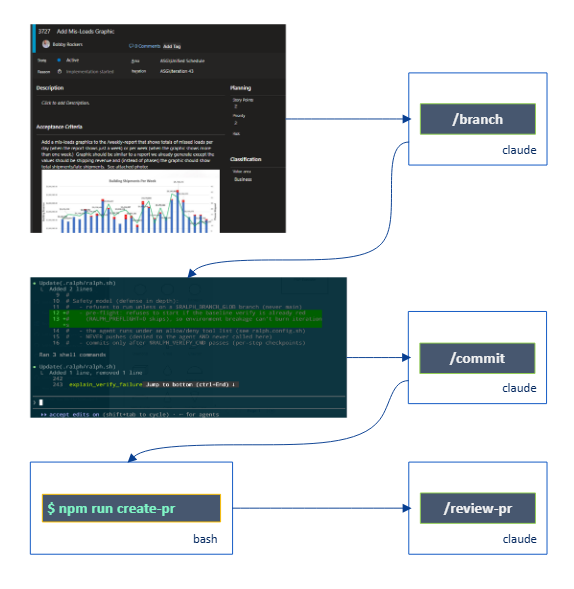
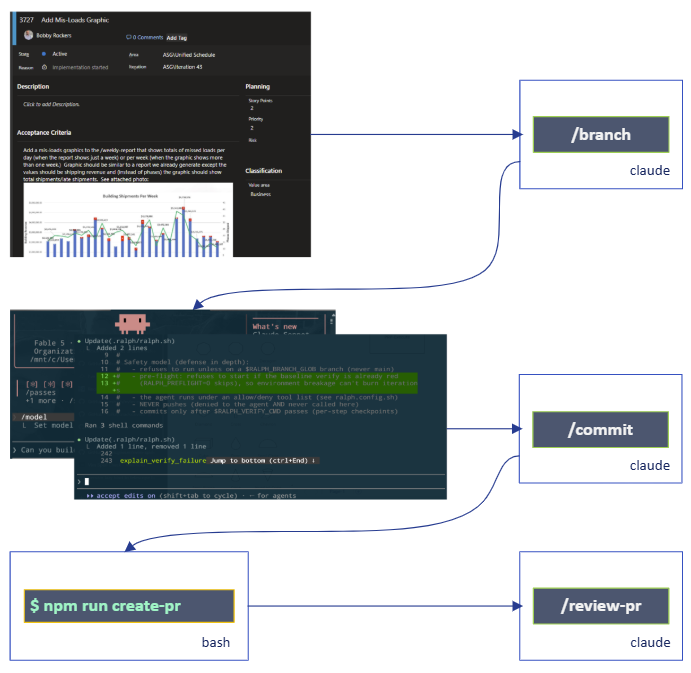
Lunch and learn updates with new ralph stuff.

diff --git a/index.html b/index.html
@@ -29,13 +29,22 @@
         font-size: 0.75em;
         margin: 20px auto;
       }
+    .reveal ul {
+      font-size: 0.7em; /* Adjust percentage or em as needed */
+    }
+    .reveal.reveal img {
+        border: none;
+        box-shadow: none;
+        max-height: calc(56vh);
+        max-width: calc(66vw);
+    }
     </style>
 	</head>
 	<body>
 		<div class="reveal">
 			<div class="slides">
 				<section>
-					<h2><img src="images/asg_logo.png" style="box-shadow:none; border:none; background:none"></h2>
+        <img src="images/asg_logo.png">
 				</section>
 
 				<section>
@@ -45,15 +54,16 @@
 
 				<section>
 					<h5>Vibe Coding <small>Version 1</small></h5>
-					<h2><img src="images/claude-v1.png" style="box-shadow:none; border:none; background:none"></h2>
+          <img src="images/claude-v1.2.png">
 				</section>
 
 				<section>
 					<h5>The Good  <small>Version 1</small></h5>
           <ul>
             <li>Automate repetitive tasks</li>
-            <li>Large scale templating functionality</li>
+            <li>Effectively eliminates boilerplate coding</li>
             <li>Easy to get summarized context</li>
+            <li>Like pair-programming with stack-exchange/Google</li>
           </ul>
         </section>
 
@@ -61,14 +71,15 @@
           <h5>The Bad  <small>Version 1</small></h5>
           <ul>
             <li>Worker "just does something"</li>
-            <li>Buggy/inconsistent code</li>
+            <li>Absence of any business knowledge you don't provide</li>
+            <li>Inconsistent code</li>
             <li>Long Run Sessions hallucinate</li>
           </ul>
 				</section>
 
 				<section>
 					<h5>PRD Workflow <small>Version 2</small></h5>
-					<h2><img src="images/claude-v2.png" style="box-shadow:none; border:none; background:none"></h2>
+          <img src="images/claude-v2.png">
 				</section>
 
 				<section>
@@ -77,6 +88,7 @@
             <li>Prompt Engineering defined process</li>
             <li>Better, more consistent results</li>
             <li>More likely to actually build what you want</li>
+            <li>Incorporates deep technical engineering skills</li>
           </ul>
         </section>
 
@@ -93,7 +105,7 @@
 
 				<section>
 					<h5>ASG Workflow <small>version 3</small></h5>
-					<h2><img src="images/claude-v3.png" style="box-shadow:none; border:none; background:none"></h2>
+          <img src="images/claude-v3.png">
 				</section>
 
 				<section>
@@ -101,7 +113,7 @@
           <ul>
             <li>Follows & Automates OUR workflow</li>
             <li>Automated Cross-LLM AI Review</li>
-            <li>Context Driven at each stage</li>
+            <li>Context Driven from task descriptions, allowing PMs to better scope</li>
             <li>Significant use of scripting for deterministic tasks</li>
             <li>Scripting allows for use outside of Claude</li>
           </ul>
@@ -110,40 +122,54 @@
         <section>
           <h5>The Bad <small>version 3</small></h5>
           <ul>
-            <li>Onerous for defining PRD requirements on the creator of the task</li>
+            <li>Onerous is on defining PRD requirements by the creator of the task</li>
             <li>AI still only has the context you've given it</li>
             <li>Agent Experts run with legacy context</li>
             <li>Agent Experts are inferred instead of defined</li>
-            <li>No built-in mechanism for continual agent improvement</li>
+            <li>No built-in mechanism for continual agent improvement/learning</li>
           </ul>
 				</section>
 
 				<section>
 					<h5>ASG Ralph Workflow <small>version 4</small></h5>
-					<h2><img src="images/claude-v3.png" style="box-shadow:none; border:none; background:none"></h2>
+          <img src="images/claude-v4.png">
 				</section>
 
 				<section>
 					<h5>Improvements</h5>
           <ul>
+            <li>Doesn't replace existing workflow, instead its extends and adds to it</li>
             <li>PRD like context, BUT inside our existing workflow</li>
             <li>AI Prompts for deep understanding and clarity</li>
             <li>Skill Specific AI Agents</li>
             <li>Full scripted unattended development</li>
             <li>Model continually learns/improves itself via guardrails & proposals</li>
+            <li>Claude commands, and their scripts, are now a plugin for ANY project</li>
           </ul>
         </section>
 
         <section>
           <h5>New Commands</h5>
           <ul>
-            <li>/grill-me: Claude command to make Claude ask questions where is lacks clarity.</li>
-            <li>/branch-ralph: /branch but will automatically pull the selected task into the ralph loop.</li>
-            <li>/create-ralph: Generates the ralph.sh script and prd.json file for autonomous development</li>
-            <li>Agent Experts are inferred instead of defined</li>
-            <li>No built-in mechanism for continual agent improvement</li>
+            <li>/ralph:branch - Like /branch but also creates the Ralph spec file</li>
+            <li>/ralph:create-prd - Creates prd.json file from the spec file</li>
+            <li>npm run ralph - Script that runs the autonmous ralph loop </li>
+            <li>/ralph:grilling - Used by create-prd for deep context understanding</li>
+            <li>/ralph:archive - Used to cleanup/archive the temporary .ralph/ files </li>
+            <li>OTHER: monitoring, creating spec files, setup a project with ralph etc...</li>
           </ul>
 				</section>
+
+        <section>
+          <h5>Changes</h5>
+          <ul>
+            <li>/branch → /asg:branch</li>
+            <li>/commit → /asg:commit</li>
+            <li>/review-pr → /asg:review-pr</li>
+            <li>/review-ai → /asg:review-ai</li>
+          </ul>
+				</section>
+
 				<section>
 					<h3><img src="images/asg_logo.png" style="box-shadow:none; border:none; background:none" width="400"></h3>
 					<small>Phone: <a href="https://www.linkedin.com/in/brockers">405.339-2292</a></small>
